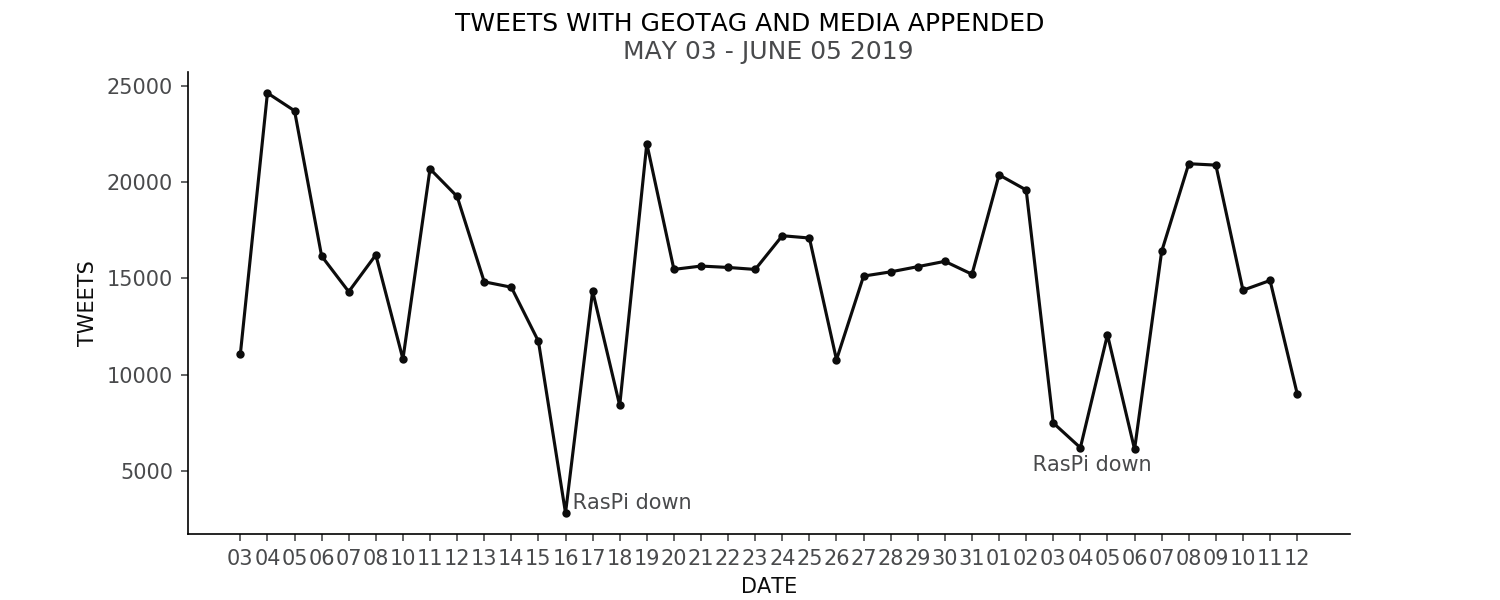
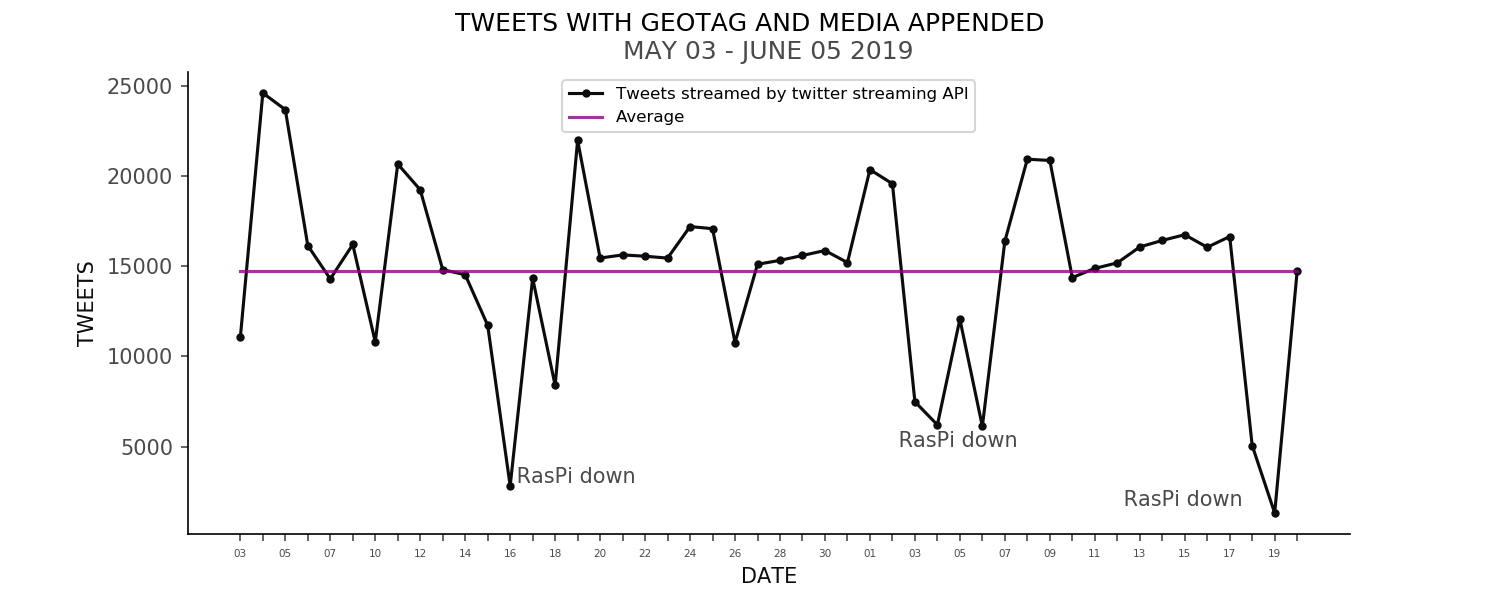
Added Average to plotHarvest()

diff --git a/imageClassification/ICARUS/darkFLOW_repo/darkflow-master/PLOTTiBoi.py b/imageClassification/ICARUS/darkFLOW_repo/darkflow-master/PLOTTiBoi.py
@@ -89,6 +89,8 @@ def plotDetection():
 def plotHarvests():
     """Plots Input data (number of tweets saved)"""
 
+    months = []
+
     # infile setup
     in_path = "twitterstreamRASPBERRY/harvests/"
     harvests = os.listdir(in_path)
@@ -102,7 +104,7 @@ def plotHarvests():
                     line = infile.readline().split(",")
                     day = line[3].split(" ")[1]
                     hour = line[3].split(" ")[2]
-
+                    month = line[3].split(" ")[1][:-3]
 
                     # if the day is not already in the list,
                     if not day in data:
@@ -112,35 +114,52 @@ def plotHarvests():
                         data[day] += 1
 
 
+                    months.append(month)
+
+
                 except IndexError:
                     break
 
             infile.close()
+
+    print(months)
 
     keys = data.keys()
     x = []
     for entry in keys:
         date = entry.split("-")[2]
         x.append(date)
-    y = data.values()
+    y = list(data.values())
+    ave = np.average(y)
+    average_list = []
+
+    for element in range(len(y)):
+        average_list.append(ave)
 
     # plotting stuff now
     fig, ax = plt.subplots(figsize=(10,4), dpi=150)
-    plt.plot(keys, y, color=colors["black"], marker=".")
+    plt.plot(keys, y, color=colors["black"], marker=".", label="Tweets streamed by twitter streaming API")
+    plt.plot(keys, average_list, label="Average", color=colors["purple"], alpha=0.8)
 
     # label the figure
     plt.suptitle("TWEETS WITH GEOTAG AND MEDIA APPENDED\n")
     plt.title("MAY 03 - JUNE 05 2019", color=colors["grey"])
     plt.xlabel("DATE", color=colors["black"])
     plt.ylabel("TWEETS", color=colors["black"])
-    ax.set_xticklabels(x)
+    ax.set_xticklabels(x, fontsize=5)
 
+    #annotations
     plt.annotate(
         " RasPi down", xy=("2019-05-16",2000),
         xytext=("2019-05-16", 3000), color=colors["grey"])
     plt.annotate(
         " RasPi down", xy=("2019-06-02", 2000),
         xytext=("2019-06-02", 5000), color=colors["grey"])
+    plt.annotate(
+        " RasPi down", xy=("2019-06-12", 2000),
+        xytext=("2019-06-12", 1700), color=colors["grey"])
+
+    plt.legend(loc="upper center", fontsize=8)
 
 
     # customize axes
@@ -150,6 +169,11 @@ def plotHarvests():
     #ax.spines['left'].set_color("grey")
     ax.tick_params(axis='x', colors=colors["grey"])
     ax.tick_params(axis='y', colors=colors["grey"])
+
+    every_nth = 2
+    for n, label in enumerate(ax.xaxis.get_ticklabels()):
+        if n % every_nth != 0:
+            label.set_visible(False)
 
     # save and show
     plt.savefig("Plots/harvests.png")
@@ -205,4 +229,4 @@ def plotLearning():
     plt.savefig("Plots/learning.png")
     plt.show()
 
-plotLearning()
+plotHarvests()
